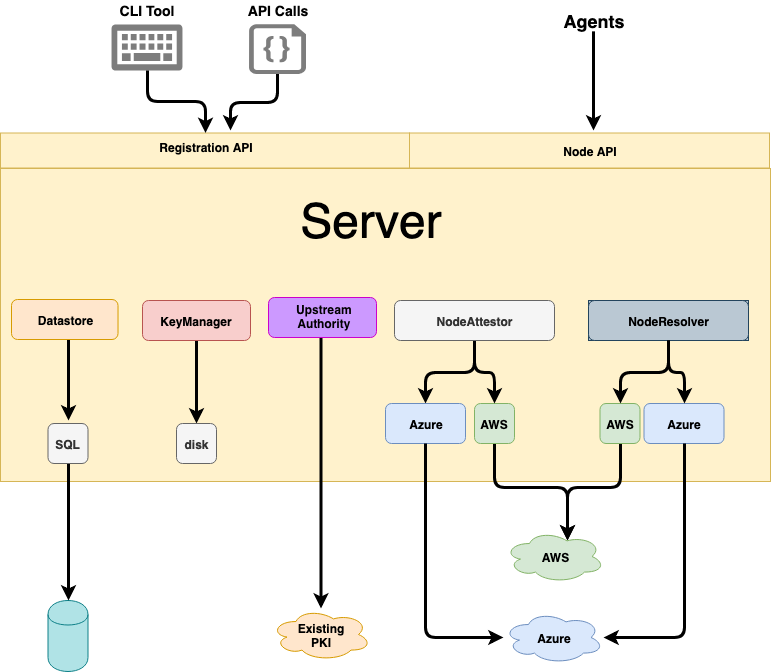
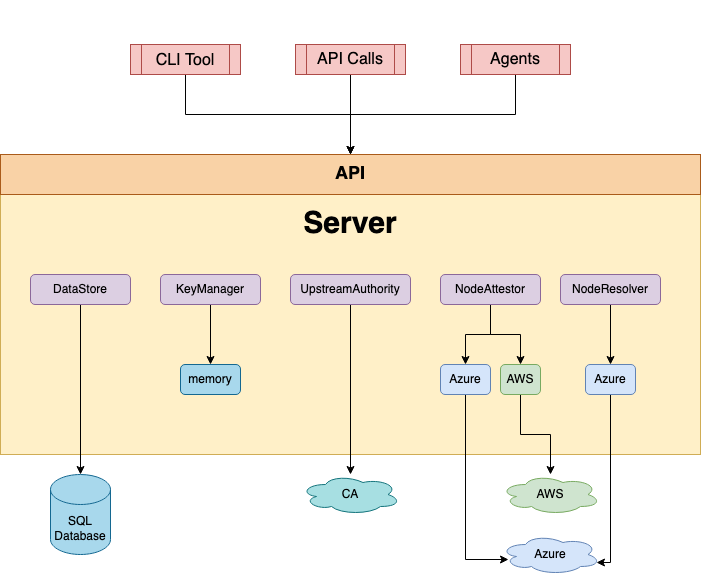
updates for 0.11.0 release

diff --git a/layouts/partials/home/cncf.html b/layouts/partials/home/cncf.html
@@ -2,7 +2,7 @@
 <section class="section has-text-centered">
   <div class="container">
     <p class="is-size-5 is-size-6-mobile has-text-weight-light">
-      SPIFFE and SPIRE are <a href="https://cncf.io" target="_blank">Cloud Native Computing Foundation</a> sandbox projects
+      SPIFFE and SPIRE are <a href="https://cncf.io" target="_blank">Cloud Native Computing Foundation</a> incubation projects
     </p>
 
     <img class="cncf-logo" src="{{ $logo }}" alt="Cloud Native Computing Foundation logo">

diff --git a/content/docs/latest/spire/understand/concepts.md b/content/docs/latest/spire/understand/concepts.md
@@ -8,10 +8,10 @@ aliases:
     - /spire/concepts
 ---
 
-SPIRE is a production-ready implementation of the [SPIFFE APIs](/docs/latest/spiffe/overview/) that performs node and workload attestation in order to securely issue SVIDs to workloads, and verify the SVIDs of other workloads, based on a predefined set of conditions. 
+SPIRE is a production-ready implementation of the [SPIFFE APIs](/docs/latest/spiffe/overview/) that performs node and workload attestation in order to securely issue SVIDs to workloads, and verify the SVIDs of other workloads, based on a predefined set of conditions.
 
 {{< info >}}
-SPIRE is just one implementation of the SPIFFE specification. For a list of current implementations, see the [spiffe.io homepage](/). 
+SPIRE is just one implementation of the SPIFFE specification. For a list of current implementations, see the [spiffe.io homepage](/).
 {{< /info >}}
 
 This section describes the architecture and components of SPIRE, walks you through “a day in the life of” how SPIRE issues an identity to a workload, and looks at some basic SPIRE concepts.
@@ -64,32 +64,32 @@ You customize the agent’s behavior by configuring plugins and other configurat
 
 ## Custom Server and Agent Plugins
 
-You can create custom server and agent plugins for particular platforms and architectures for which SPIRE doesn’t include plugins. For example, you could create server and agent node attestors for an architecture other than those summarized under [Node Attestation](#node-attestation). Or you could create a custom datastore plugin to support a type of database SPIRE doesn’t currently support. Because SPIRE loads custom plugins at runtime, you need not recompile SPIRE in order to enable them. 
+You can create custom server and agent plugins for particular platforms and architectures for which SPIRE doesn’t include plugins. For example, you could create server and agent node attestors for an architecture other than those summarized under [Node Attestation](#node-attestation). Or you could create a custom keymanager plugin to handle private keys in a way SPIRE doesn’t currently support. Because SPIRE loads custom plugins at runtime, you do not need recompile SPIRE in order to enable them.
 
 For help creating custom server and agent plugins, see [SPIRE Plugin Development](https://github.com/spiffe/plugin-template/blob/master/SPIRE_PLUGIN_GUIDE.md). 
 
 # A Day in the Life of an SVID
 
-This section walks through a “day in the life” of how SPIRE issues an identity to a workload, from the time the agent starts up on a node to the point of a workload on the same node receiving a valid identity in the form of an X.509 SVID. Note that SVIDs in JWT format are handled differently. For the purposes of simple demonstration, the workload is running on AWS EC2. 
+This section walks through a “day in the life” of how SPIRE issues an identity to a workload, from the time the agent starts up on a node to the point of a workload on the same node receiving a valid identity in the form of an X.509 SVID. Note that SVIDs in JWT format are handled differently. For the purposes of simple demonstration, the workload is running on AWS EC2.
 
 1. The SPIRE Server starts up.  
 2. Unless the user has configured an UpstreamAuthority plugin, the server generates a self-signed certificate (a certificate signed with its own private key); the server will use this certificate to sign SVIDs for all the workloads in this server’s trust domain.
-3. If it’s the first time starting up, the server automatically generates a trust bundle, whose contents it stores in a datastore you specify in the datastore plugin -- described in the section "Built-in plugins" in the 
-[SPIRE Server Configuration Reference](https://github.com/spiffe/spire/blob/master/doc/spire_server.md).
+3. If it’s the first time starting up, the server automatically generates a trust bundle, whose contents it stores in a sql datastore you specify in the datastore configuration -- described in the section "Built-in plugins" in the
+[Server plugin: DataStore sql](https://github.com/spiffe/spire/blob/master/doc/plugin_server_datastore_sql.md).
 4. The server turns on its registration API, to allow you to register workloads.  
 5. The SPIRE Agent starts up on the node that the workload is running on.  
 6. The agent performs node attestation, to prove to the server the identity of the node it is running on. For example, when running on an AWS EC2 Instance it would typically perform node attestation by supplying an [AWS Instance Identity Document](https://docs.aws.amazon.com/AWSEC2/latest/UserGuide/instance-identity-documents.html) to the server.  
-7. The agent presents this proof of identity to the server over a TLS connection authenticated via the bootstrap bundle the agent is configured with. 
+7. The agent presents this proof of identity to the server over a TLS connection authenticated via the bootstrap bundle the agent is configured with.
 {{< warning >}}
-This bootstrap bundle is a default configuration, and should be replaced with customer-supplied credentials in production.     
+This bootstrap bundle is a default configuration, and should be replaced with customer-supplied credentials in production.
 {{< /warning >}}
-8. The server calls the AWS API to validate the proof.    
-9. AWS acknowledges the document is valid.    
-10. The server performs node resolution, to verify additional properties about the agent node and update its registration entries accordingly. For example, if the node was attested using an AWS Instance Identity Document, then the server would use a supplied set of AWS credentials to query the AWS control plane to retrieve additional metadata about the instance ID that the AWS Instance Identity Document verified.  
+8. The server calls the AWS API to validate the proof.
+9. AWS acknowledges the document is valid.
+10. The server performs node resolution, to verify additional properties about the agent node and update its registration entries accordingly. For example, if the node was attested using  Microsoft Azure Managed Service Identity (MSI). The resolver extracts the Tenant ID and Principal ID from the agent SPIFFE ID and uses the various Azure services to get information for building an additional set of selectors.
 11. The server issues an SVID to the agent, representing the identity of the agent itself.  
-12. The agent contacts the server (using its SVID as its TLS client certificate) to obtain the registration entries it is authorized for and to ask the server to sign workload SVIDs.  
+12. The agent contacts the server (using its SVID as its TLS client certificate) to obtain the registration entries it is authorized for and to ask the server to sign workload SVIDs.
 13. Now fully bootstrapped, the agent turns on the Workload API.  
-14. A workload calls the Workload API to request an SVID.   
+14. A workload calls the Workload API to request an SVID.
 15. The agent initiates the workload attestation process by calling its workload attestors, providing them with the process ID of the workload process.  
 16. Attestors use the process ID to discover additional information about the workload
 17. The attestors return the discovered information to agent in the form of selectors
@@ -101,9 +101,9 @@ This section looks at some basic concepts in SPIRE that we will refer to through
 
 ## Workload Registration
 
-In order for SPIRE to identify a workload, you must register the workload with the SPIRE Server, via registration entries. Workload registration tells SPIRE how to identify the workload and which SPIFFE ID to give it. 
+In order for SPIRE to identify a workload, you must register the workload with the SPIRE Server, via registration entries. Workload registration tells SPIRE how to identify the workload and which SPIFFE ID to give it.
 
-A registration entry maps an identity -- in the form of a SPIFFE ID -- to a set of properties known as selectors that the workload must possess in order to be issued a particular identity. During workload attestation, the agent uses these selector values to verify the workload’s identity. 
+A registration entry maps an identity -- in the form of a SPIFFE ID -- to a set of properties known as selectors that the workload must possess in order to be issued a particular identity. During workload attestation, the agent uses these selector values to verify the workload’s identity.
 
 Workload registration is covered in detail in the [SPIRE Documentation](/docs/latest/spire/using/registering/)
 

diff --git a/diagrams/README.md b/diagrams/README.md
@@ -1,0 +1,3 @@
+# Diagrams
+
+Draw.io diagrams sources, that end up converted into images under `/static/img/`.
